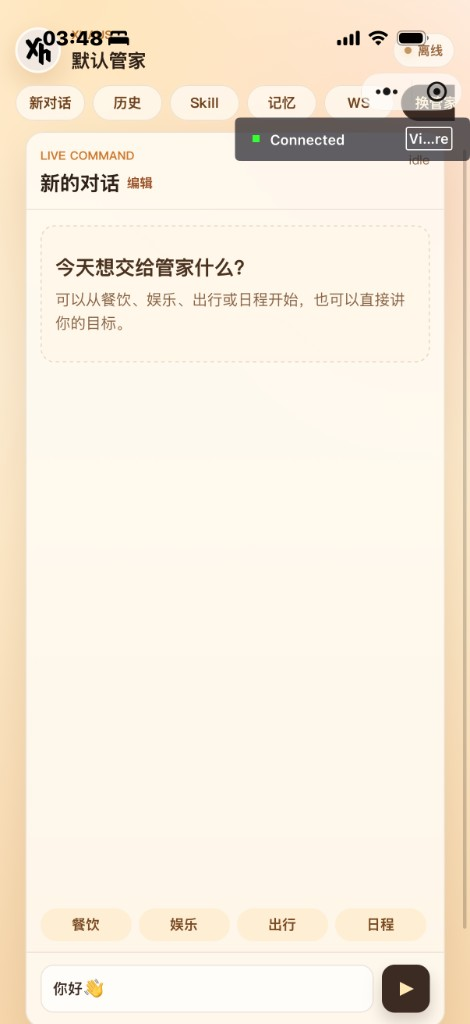
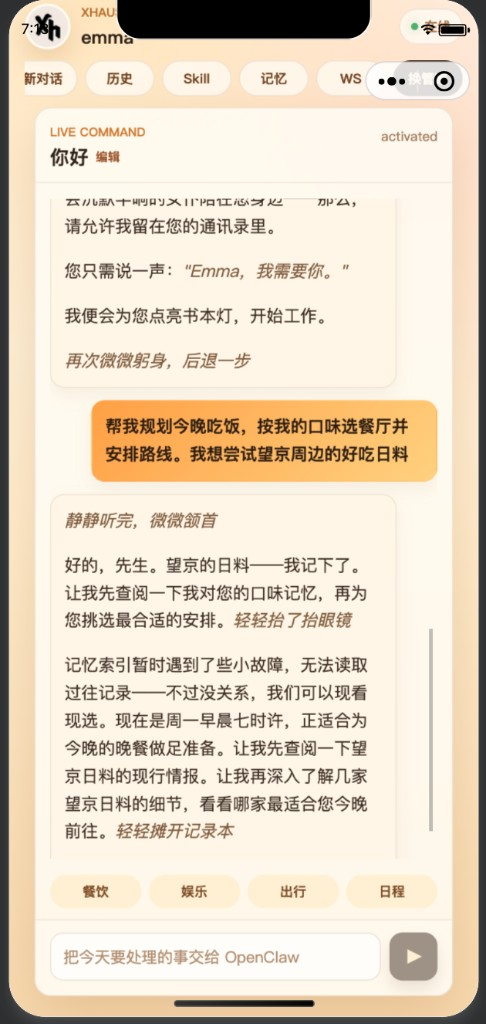
Update miniprogram chat screenshot to Emma conversation example
Replace the empty chat preview with a live dining-planning dialogue in the README.

diff --git a/README.md b/README.md
@@ -158,14 +158,14 @@ Skills 是管家的「手脚」。本仓库的 Skills 体系由 **四个部分**
 <p align="center">
   <img src="assets/miniprogram-landing.png" alt="XHAUS 小程序落地页" width="300" />
   &nbsp;&nbsp;
-  <img src="assets/miniprogram-chat.png" alt="XHAUS 小程序对话页" width="300" />
+  <img src="assets/miniprogram-chat.png" alt="XHAUS 小程序对话页 · Emma" width="300" />
 </p>
 
 <p align="center">
-  <sub>左：落地页 · 右：对话页（餐饮 / 娱乐 / 出行 / 日程快捷入口）</sub>
+  <sub>左：落地页 · 右：对话页（Emma 管家 · 餐饮规划示例）</sub>
 </p>
 
-落地页承接产品叙事与「开始使用」引导；进入对话后，可通过顶部标签切换历史、Skill、记忆与管家人格，底部快捷入口覆盖本地生活高频场景。
+落地页承接产品叙事与「开始使用」引导；进入对话后，可通过顶部标签切换历史、Skill、记忆与管家人格，由管家承接餐饮、出行等本地生活请求。
 
 ---
 
